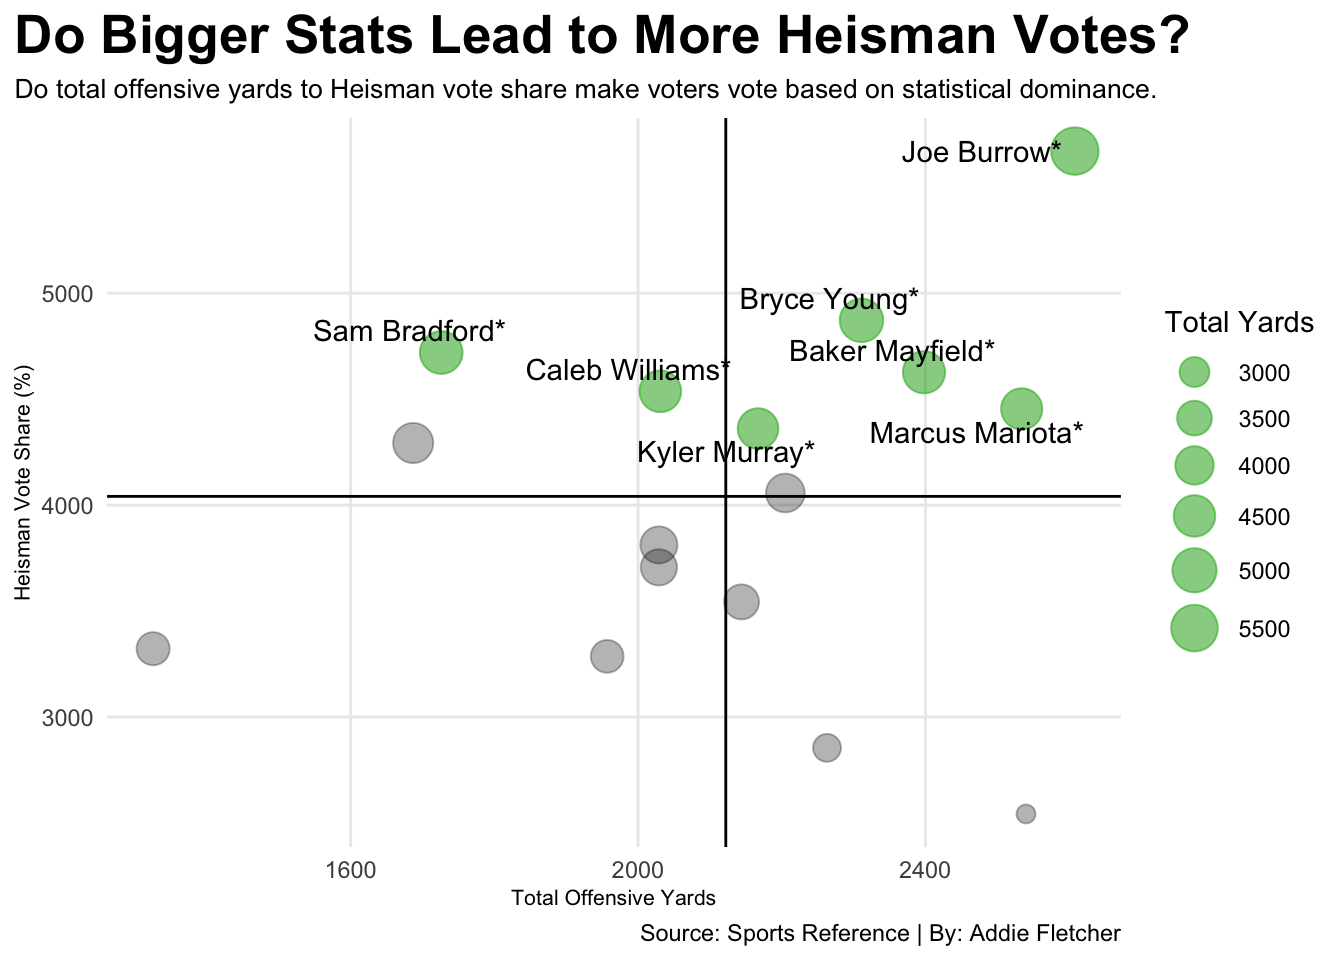
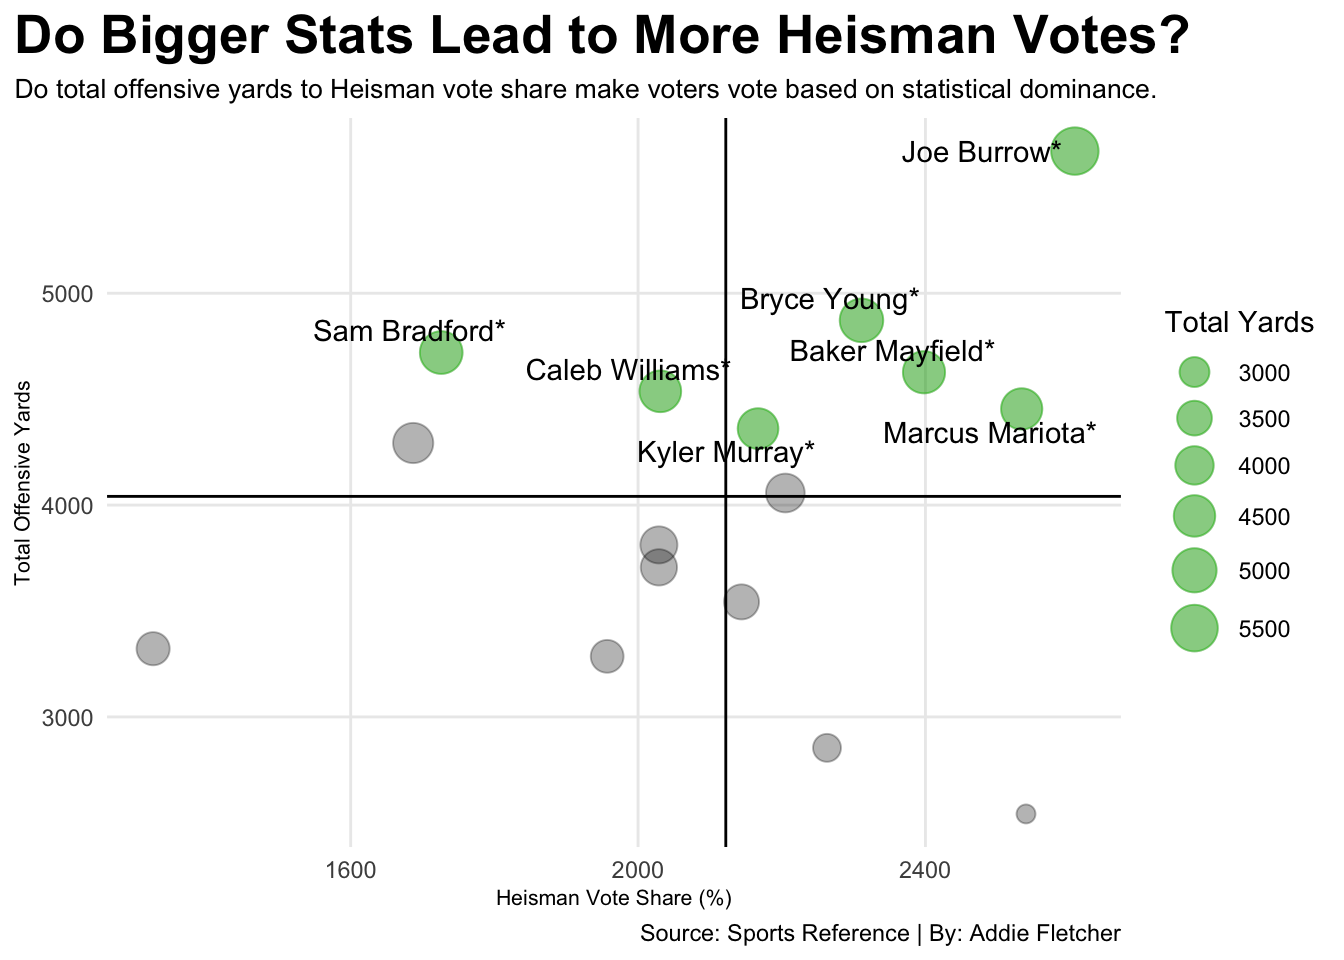
Who is the best Heisman quarterback in the last 20 years?

diff --git a/posts/who-is-the-best-heisman-qb-in-the-last-20-years/index.html b/posts/who-is-the-best-heisman-qb-in-the-last-20-years/index.html
@@ -223,8 +223,8 @@ pre > code.sourceCode > span > a:first-child::before { text-decoration: underlin
 <span id="cb1-24"><a href="#cb1-24" aria-hidden="true" tabindex="-1"></a>  )<span class="sc">+</span></span>
 <span id="cb1-25"><a href="#cb1-25" aria-hidden="true" tabindex="-1"></a>  <span class="fu">coord_flip</span>() <span class="sc">+</span></span>
 <span id="cb1-26"><a href="#cb1-26" aria-hidden="true" tabindex="-1"></a>  <span class="fu">labs</span>(</span>
-<span id="cb1-27"><a href="#cb1-27" aria-hidden="true" tabindex="-1"></a>    <span class="at">x=</span><span class="st">"Heisman Vote Share (%)"</span>, </span>
-<span id="cb1-28"><a href="#cb1-28" aria-hidden="true" tabindex="-1"></a>    <span class="at">y=</span><span class="st">"Total Offensive Yards"</span>, </span>
+<span id="cb1-27"><a href="#cb1-27" aria-hidden="true" tabindex="-1"></a>    <span class="at">x=</span><span class="st">"Total Offensive Yards"</span>, </span>
+<span id="cb1-28"><a href="#cb1-28" aria-hidden="true" tabindex="-1"></a>    <span class="at">y=</span><span class="st">"Heisman Vote Share (%)"</span>, </span>
 <span id="cb1-29"><a href="#cb1-29" aria-hidden="true" tabindex="-1"></a>    <span class="at">title=</span><span class="st">"Do Bigger Stats Lead to More Heisman Votes?"</span>, </span>
 <span id="cb1-30"><a href="#cb1-30" aria-hidden="true" tabindex="-1"></a>    <span class="at">subtitle=</span><span class="st">"Do total offensive yards to Heisman vote share make voters vote based on statistical dominance."</span>, </span>
 <span id="cb1-31"><a href="#cb1-31" aria-hidden="true" tabindex="-1"></a>    <span class="at">caption=</span><span class="st">"Source: Sports Reference | By: Addie Fletcher"</span></span>

diff --git a/index.html b/index.html
@@ -209,7 +209,7 @@ window.Quarto = {
 
 <div class="quarto-listing quarto-listing-container-default" id="listing-listing">
 <div class="list quarto-listing-default">
-<div class="quarto-post image-right" data-index="0" data-categories="Rm9vdGJhbGw=" data-listing-date-sort="1764914400000" data-listing-file-modified-sort="1764965999122" data-listing-date-modified-sort="NaN" data-listing-reading-time-sort="5" data-listing-word-count-sort="899">
+<div class="quarto-post image-right" data-index="0" data-categories="Rm9vdGJhbGw=" data-listing-date-sort="1764914400000" data-listing-file-modified-sort="1765380438619" data-listing-date-modified-sort="NaN" data-listing-reading-time-sort="5" data-listing-word-count-sort="899">
 <div class="thumbnail"><a href="./posts/who-is-the-best-heisman-qb-in-the-last-20-years/index.html" class="no-external">
 
 <img loading="lazy" src="./posts/who-is-the-best-heisman-qb-in-the-last-20-years/image.png" class="thumbnail-image">
